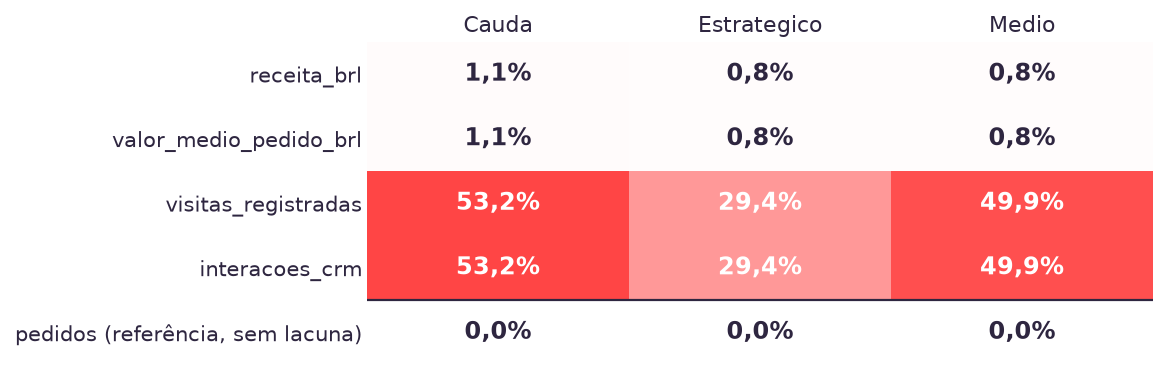
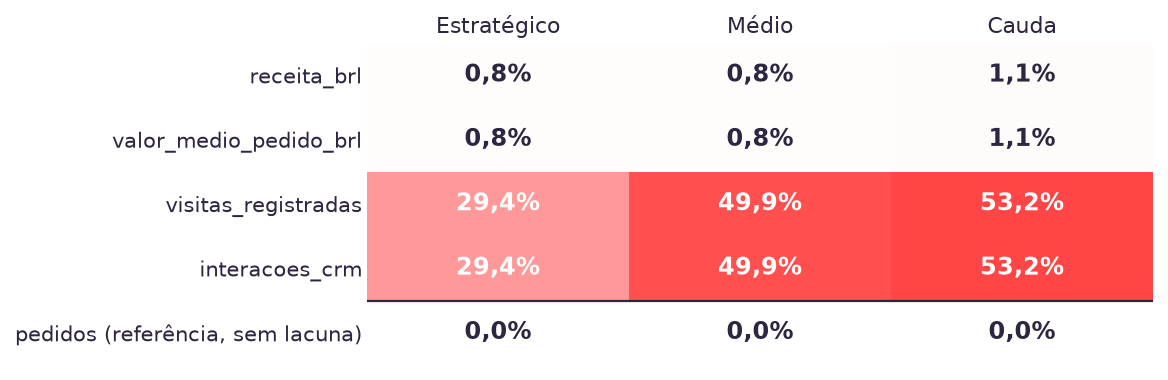
fix(aula02): acentuacao nos rotulos de segmento e ordem por porte no mapa de ausencia
Os segmentos vem sem acento do CSV (Estrategico, Medio). Um mapa
ROTULO_SEGMENTO agora traduz para acentuacao completa em toda figura que
rotula segmento, sem alterar o valor de dado usado no calculo.

O mapa de ausencia passa a ordenar as colunas por porte decrescente
(Estrategico, Medio, Cauda) em vez de alfabetica: e essa ordem que revela a
progressao monotona da ausencia de engajamento com o porte da conta,
achado que sustenta a Pratica 2. A ordenacao por valor dentro de cada
painel da figura de inversao nao foi tocada.

diff --git a/tools/gerar_figuras_aula02.py b/tools/gerar_figuras_aula02.py
@@ -48,7 +48,10 @@ from tools.gerar_figuras_aula01 import (  # noqa: E402
 SAIDA = RAIZ / "assets" / "img"
 CSV = RAIZ / "dados" / "kovan_painel_contas.csv"
 
-SEGMENTOS = ("Cauda", "Estrategico", "Medio")
+# O CSV grava os segmentos sem acento. Rotulo projetado leva acentuacao
+# completa: toda figura que rotula segmento passa o valor cru por aqui antes
+# de escrever na tela.
+ROTULO_SEGMENTO = {"Estrategico": "Estratégico", "Medio": "Médio", "Cauda": "Cauda"}
 
 
 def _fmt(valor: float, casas: int = 2) -> str:
@@ -125,7 +128,7 @@ def fig_inversao_segmentos(destino: Path) -> None:
         posicoes = np.arange(len(serie))
         ax.barh(posicoes, serie.values, color=cores, height=0.56, zorder=3)
         ax.set_yticks(posicoes)
-        ax.set_yticklabels(serie.index, fontsize=17)
+        ax.set_yticklabels([ROTULO_SEGMENTO[s] for s in serie.index], fontsize=17)
         ax.set_xlim(0, limite)
         ax.set_title(titulo, fontsize=18, color=ROXO, loc="left", pad=12)
         ax.set_xlabel("visitas médias por conta-trimestre", fontsize=15)
@@ -230,6 +233,13 @@ ROTULOS_COLUNA = {
 def fig_mapa_ausencia(destino: Path) -> None:
     df = pd.read_csv(CSV)
 
+    # Colunas por porte decrescente, nao alfabetica: e essa ordem que revela
+    # que a ausencia de engajamento acompanha o porte da conta (achado da
+    # Pratica 2). Em ordem alfabetica (Cauda, Estrategico, Medio) as mesmas
+    # taxas leem como ruido: 53,2% / 29,4% / 49,9%. Nesta ordem, 29,4% / 49,9%
+    # / 53,2% e uma progressao monotona.
+    segmentos_por_porte = ("Estrategico", "Medio", "Cauda")
+
     linhas = COLUNAS_COM_LACUNA + [COLUNA_REFERENCIA]
     matriz = pd.DataFrame(
         {
@@ -237,7 +247,7 @@ def fig_mapa_ausencia(destino: Path) -> None:
                 df.loc[df["segmento"] == segmento, coluna].isna().mean()
                 for coluna in linhas
             ]
-            for segmento in SEGMENTOS
+            for segmento in segmentos_por_porte
         },
         index=linhas,
     )
@@ -252,8 +262,9 @@ def fig_mapa_ausencia(destino: Path) -> None:
     dados = matriz.values
     ax.imshow(dados, cmap=cmap, vmin=0, vmax=dados.max(), aspect="auto")
 
-    ax.set_xticks(range(len(SEGMENTOS)))
-    ax.set_xticklabels(SEGMENTOS, fontsize=16, color=ROXO)
+    ax.set_xticks(range(len(segmentos_por_porte)))
+    ax.set_xticklabels([ROTULO_SEGMENTO[s] for s in segmentos_por_porte],
+                        fontsize=16, color=ROXO)
     ax.xaxis.set_ticks_position("top")
     ax.xaxis.set_label_position("top")
 
@@ -266,7 +277,7 @@ def fig_mapa_ausencia(destino: Path) -> None:
     ax.axhline(len(COLUNAS_COM_LACUNA) - 0.5, color=ROXO, linewidth=1.6)
 
     for i, linha in enumerate(linhas):
-        for j, segmento in enumerate(SEGMENTOS):
+        for j, segmento in enumerate(segmentos_por_porte):
             valor = matriz.loc[linha, segmento]
             cor_texto = BRANCO if valor > dados.max() * 0.55 else ROXO
             ax.text(j, i, f"{_fmt(valor * 100, 1)}%", ha="center", va="center",
